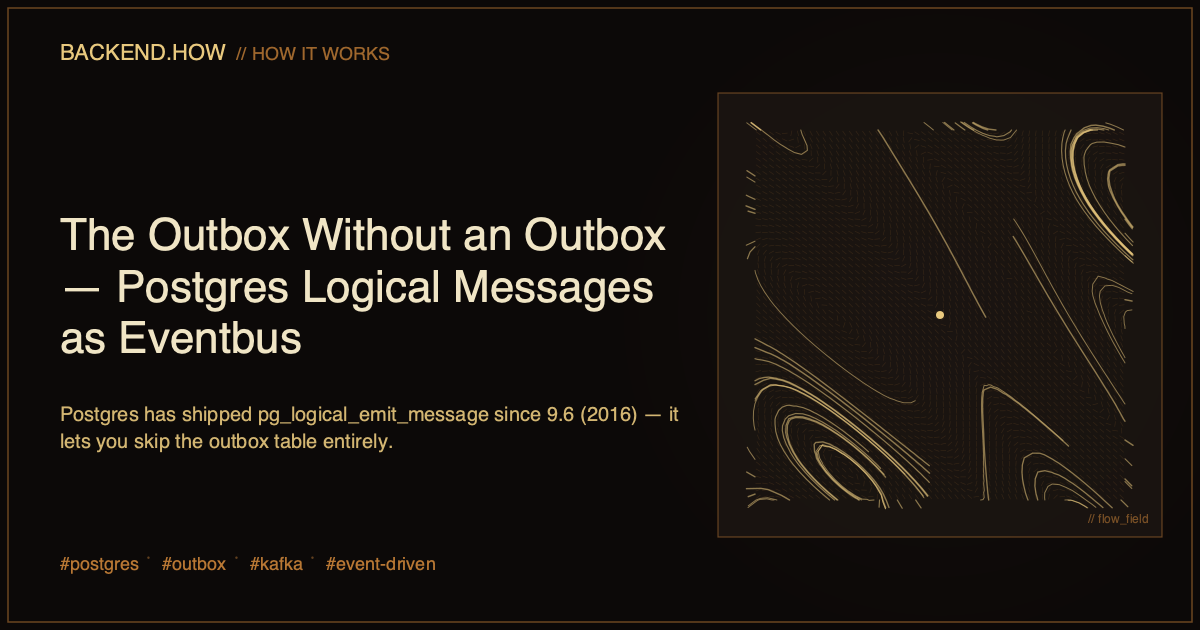
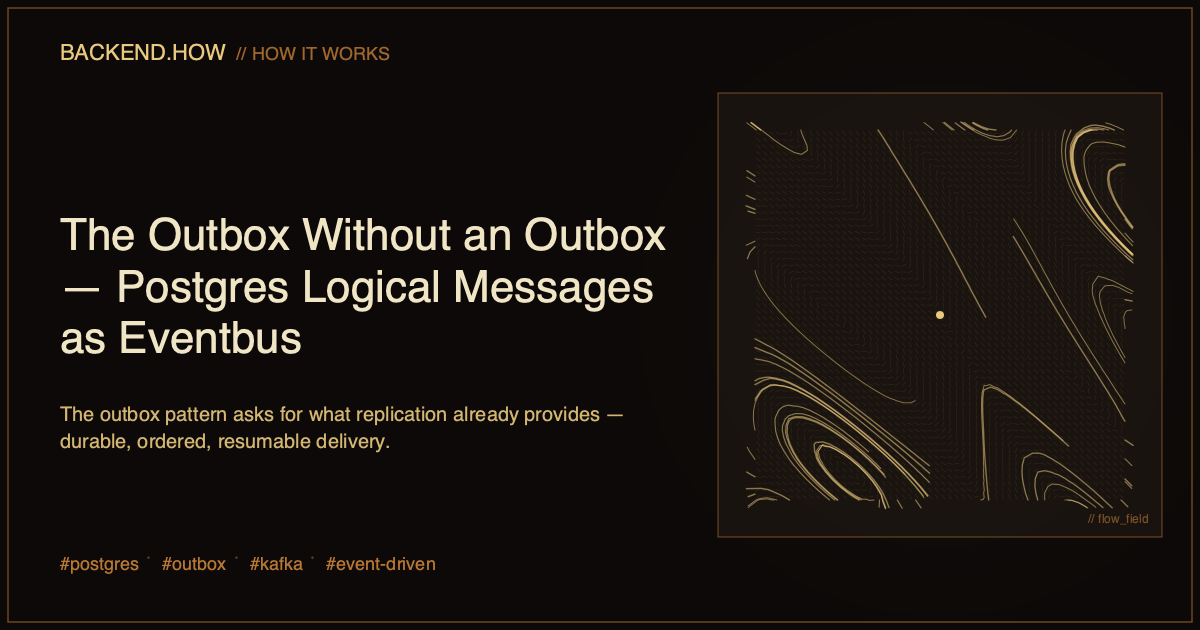
post(outbox): update OG subtitle to match article framing

Changed region(s): [[0.0308, 0.6333, 0.555, 0.7238]]

diff --git a/content/posts/outbox-without-outbox-pg-logical-messages/index.md b/content/posts/outbox-without-outbox-pg-logical-messages/index.md
@@ -1,6 +1,6 @@
 +++
 title = "🦉 The Outbox Without an Outbox — Postgres Logical Messages as Eventbus"
-description = "Postgres has shipped pg_logical_emit_message since 9.6 (2016) — it lets you skip the outbox table entirely. We walk factlib + OwlPost line by line and audit the LSN-ack pipeline."
+description = "The outbox pattern asks for what replication already provides — durable, ordered, resumable delivery. Postgres' pg_logical_emit_message lets your application piggyback on that, walked line by line through factlib + OwlPost."
 date = 2026-05-17T09:00:00+05:30
 lastmod = 2026-05-17T09:00:00+05:30
 publishDate = "2026-05-17T09:00:00+05:30"